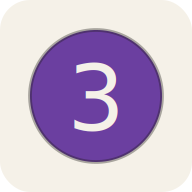
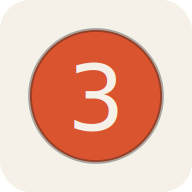
Revert brand color change — back to vermilion (#4)
This reverts commit ee070ac98dcc322e41bd1e4bd4fbf56e656ace2f.

diff --git a/src/styles/global.css b/src/styles/global.css
@@ -19,12 +19,9 @@
   --paper-mute: #8A8472;     /* tertiary / labels */
 
   /* ---- ACCENTS ---- */
-  /* Brand accent kept under the historical --flame token name so downstream
-   * components don't need to change. Value is a deep royal violet — reads
-   * with editorial weight on the warm cream ground. */
-  --flame: #6B3FA0;          /* deep royal violet (brand primary) */
-  --flame-soft: rgba(107, 63, 160, 0.16);
-  --flame-faint: rgba(107, 63, 160, 0.08);
+  --flame: #D9542F;          /* deeper warm vermillion (anchors better on cream) */
+  --flame-soft: rgba(217, 84, 47, 0.16);
+  --flame-faint: rgba(217, 84, 47, 0.08);
   --on-flame: #FFFFFF;       /* text color that sits on top of --flame (theme-independent) */
   --sage: #7D8F73;           /* dusty sage — deepened for cream readability */
   --bone: #BFA876;           /* warm bone for tagged elements */
@@ -2411,14 +2408,14 @@ a:focus-visible, button:focus-visible {
   border: 1.5px solid var(--flame);
   padding: 7px 14px 7px 12px;
   border-radius: 999px;
-  background: rgba(107, 63, 160, 0.04);
+  background: rgba(217, 84, 47, 0.04);
 }
 
 .lc-stamp-dot {
   width: 8px; height: 8px;
   border-radius: 50%;
   background: var(--flame);
-  box-shadow: 0 0 0 0 rgba(107, 63, 160, 0.6);
+  box-shadow: 0 0 0 0 rgba(217, 84, 47, 0.6);
   animation: lc-pulse 1.6s ease-out infinite;
 }
 
@@ -2432,9 +2429,9 @@ a:focus-visible, button:focus-visible {
 }
 
 @keyframes lc-pulse {
-  0%   { box-shadow: 0 0 0 0 rgba(107, 63, 160, 0.55); }
-  70%  { box-shadow: 0 0 0 10px rgba(107, 63, 160, 0); }
-  100% { box-shadow: 0 0 0 0 rgba(107, 63, 160, 0); }
+  0%   { box-shadow: 0 0 0 0 rgba(217, 84, 47, 0.55); }
+  70%  { box-shadow: 0 0 0 10px rgba(217, 84, 47, 0); }
+  100% { box-shadow: 0 0 0 0 rgba(217, 84, 47, 0); }
 }
 
 .lc-subtitle {
